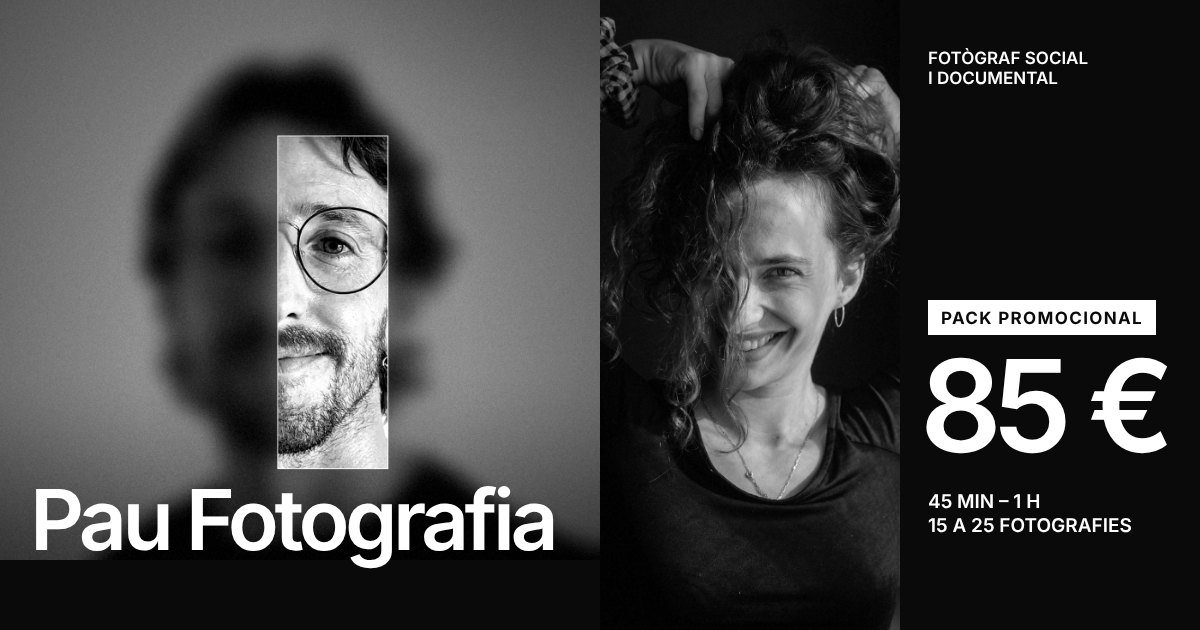
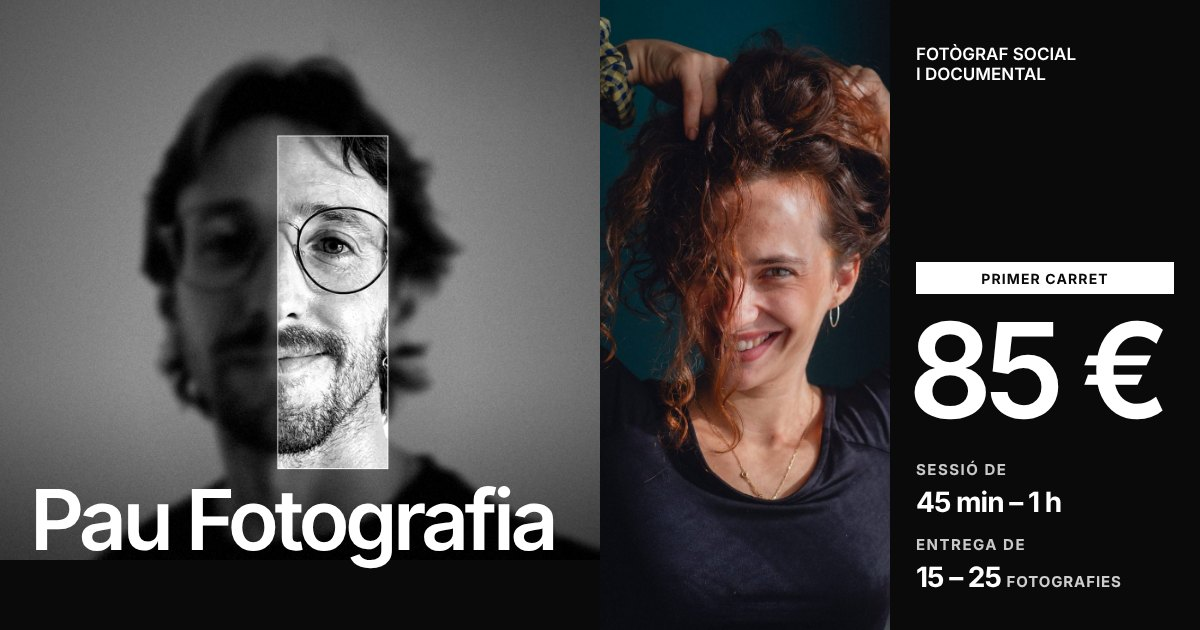
Vista prèvia per compartir actualitzada (Primer carret)
Claude-Session: https://claude.ai/code/session_01Gu4fKh15S1mJkh4ThjJ3MW

diff --git a/index.html b/index.html
@@ -7,9 +7,9 @@
 <meta name="description" content="Fotògraf social i documental a Llinars del Vallès. Pack promocional: 85 € per sessió de 45 min – 1 h, entrega de 15 a 25 fotografies.">
 <meta name="theme-color" content="#0a0a0a">
 <meta property="og:type" content="website">
-<meta property="og:title" content="Pau Fotografia · Pack promocional 85 €">
-<meta property="og:description" content="Retrat · Família · Embaràs · Parella. Sessió de 45 min – 1 h, entrega de 15 a 25 fotografies. Llinars del Vallès.">
-<meta property="og:image" content="https://pau-fotografia.pages.dev/pack/og.jpg">
+<meta property="og:title" content="Pau Fotografia · Pack promocional Primer carret · 85 €">
+<meta property="og:description" content="Retrat · Família · Embaràs · Parella. Sessió de 45 min – 1 h, entrega de 15 – 25 fotografies. Llinars del Vallès.">
+<meta property="og:image" content="https://pau-fotografia.pages.dev/pack/og.jpg?v=2">
 <meta property="og:image:width" content="1200">
 <meta property="og:image:height" content="630">
 <meta property="og:url" content="https://pau-fotografia.pages.dev/">
